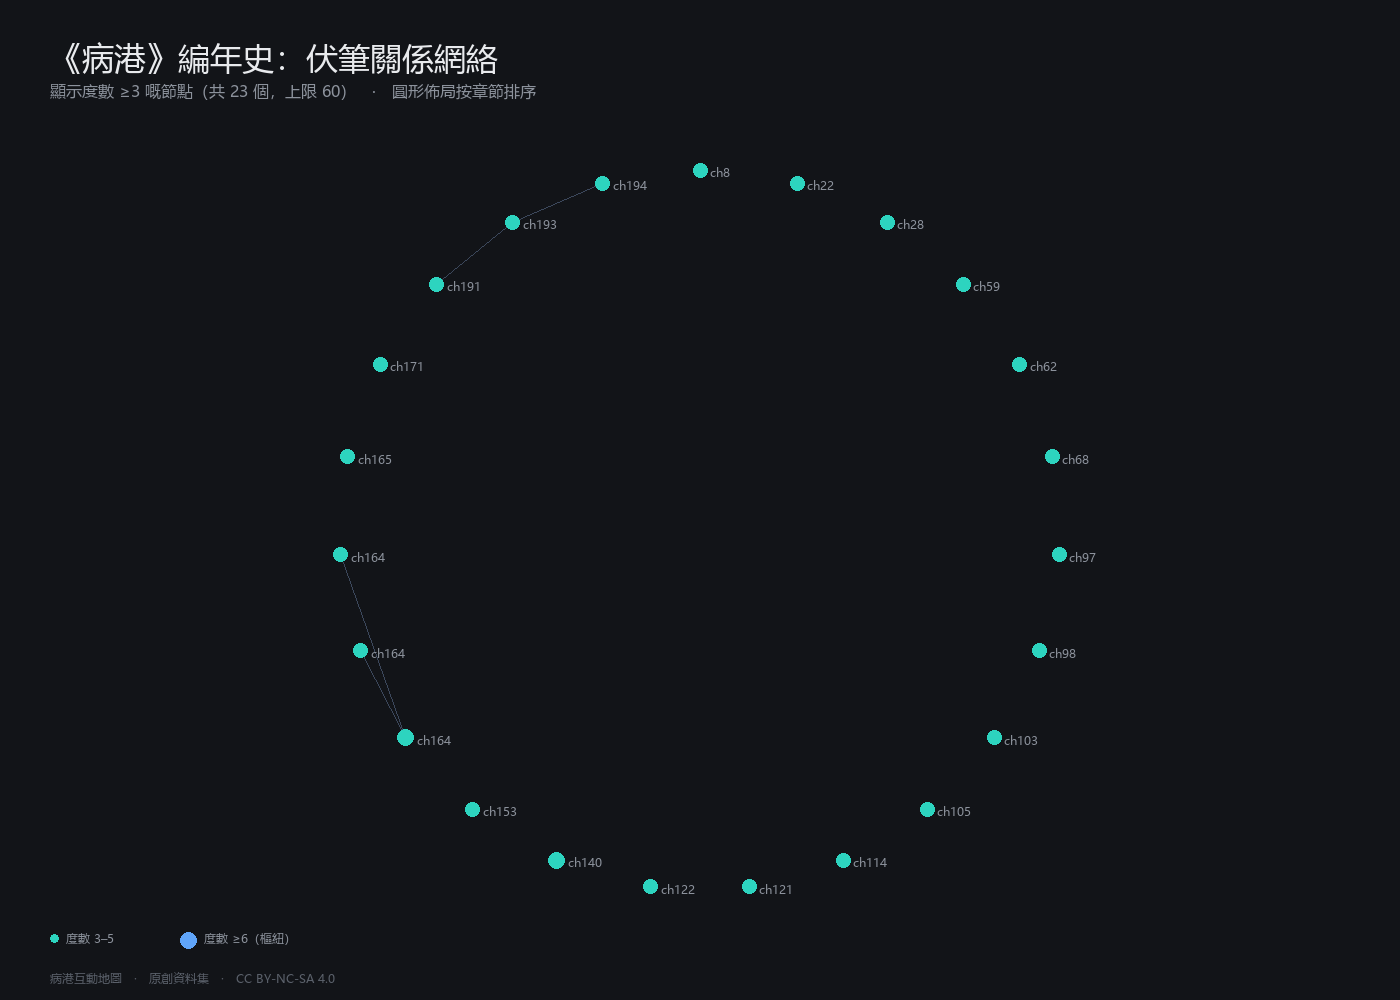
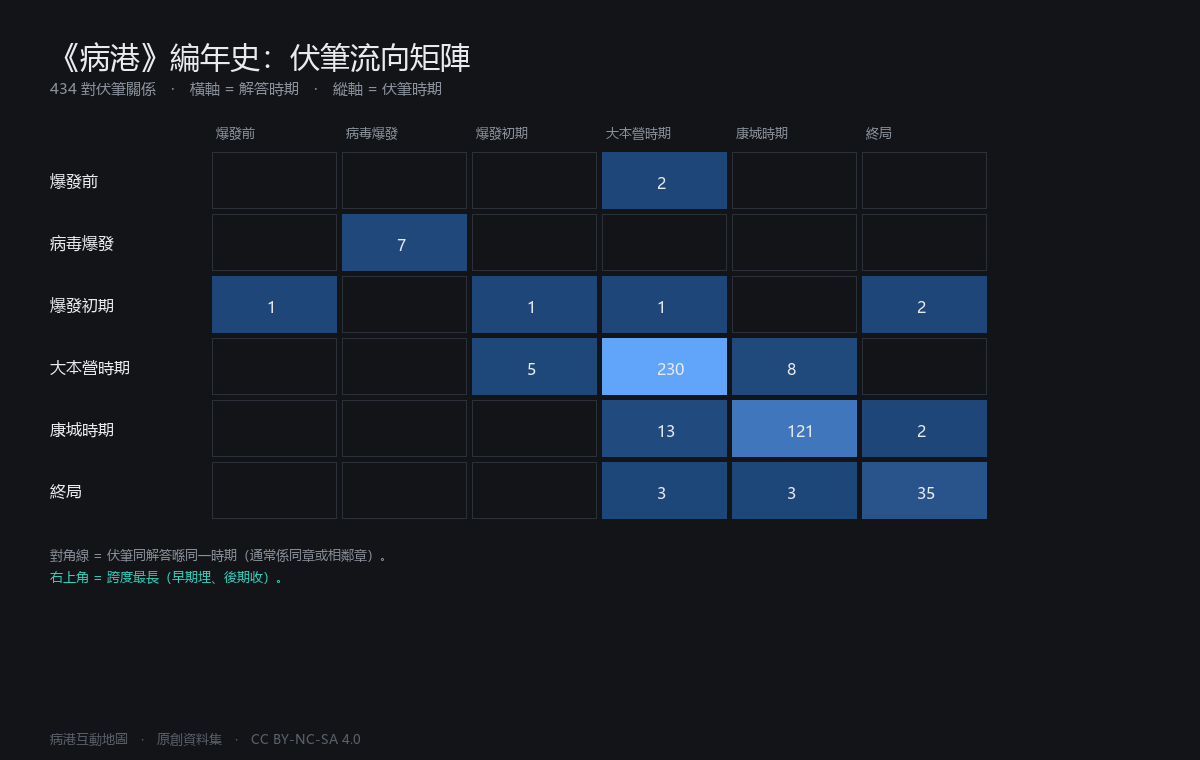
feat(export): 網絡圖改為「時期流向矩陣」（節點圖太稀疏）
═══ 問題 ═══
第一版「伏筆關係網絡圖」用圓形節點佈局，但實測**極稀疏**：
| 度數 | 節點數 |
|---|---|
| 1 | 525 |
| 2 | 136 |
| 3 | 21 |
| 4 | 2 |

度數 ≥3 只有 23 個節點、4 條邊 —— 畫出嚟只係散點，冇結構可言。
（因為伏筆關係多數係 1 對 1，唔會形成密集樞紐。）

═══ 修正：改為「時期 × 時期」流向矩陣 ═══
回答更有意義嘅問題：**「邊個時期埋嘅伏筆，喺邊個時期收？」**

實測結果：
| 伏筆時期 ↓ / 解答時期 → | 大本營 | 康城 | 終局 |
|---|---|---|---|
| 大本營時期 | **230** | 8 | 0 |
| 康城時期 | 13 | **121** | 2 |
| 終局 | 3 | 3 | **35** |

**關鍵發現**：**89% 伏筆（386/434）喺同一時期內解答**。
跨時期嘅只有 48 對，而且以「大本營 → 康城」（8）同
「康城 → 大本營」（13）為主 —— 呢個反映咗故事**地點上嘅非線性**
（角色喺兩個聚居地之間來回）。

⚠ 點解會有「康城 → 大本營」呢種「倒流」：因為**時期係按地點定義**，
而故事會返返大本營，所以早期喺康城埋嘅伏筆可能喺返回大本營後才收。

═══ 教訓 ═══
**唔好假設資料有網絡結構**。我原本假設「伏筆關係會形成樞紐網絡」，
但實測度數分佈顯示係**長尾**（525 個度數=1）。改用矩陣後才睇到結構。

呢個係「先用資料驗證假設，再決定視覺化形式」嘅例子 ——
如果一開始就畫節點圖，會得出「冇結構」嘅錯誤結論。

閘門：pytest 223/223 ✅

diff --git a/scripts/export_chronicle_hubs.py b/scripts/export_chronicle_hubs.py
@@ -175,8 +175,92 @@ def draw_hubs(entries: list[dict]) -> Path:
     return out
 
 
+PERIOD_ORDER = ["爆發前", "病毒爆發", "爆發初期", "大本營時期", "康城時期", "終局"]
+
+
 def draw_network(entries: list[dict]) -> Path:
-    """圓形佈局嘅伏筆網絡圖（只畫度數最高嘅節點，避免變毛球）。"""
+    """時期流向矩陣：伏筆同解答各屬邊個時期。
+
+    ⚠ 為何唔用「節點網絡圖」
+    ------------------------
+    實測度數分佈極稀疏：525 個節點度數=1、136 個=2、只有 23 個 ≥3。
+    畫出嚟只係散點，冇結構可言。
+
+    改為**時期 × 時期**嘅流向矩陣 —— 回答一個更有意義嘅問題：
+    「邊個時期埋嘅伏筆，喺邊個時期收？」呢個先係編年史嘅核心。
+    """
+    by_id = {e["id"]: e for e in entries}
+    # 建立 時期 × 時期 矩陣
+    mat: dict[tuple[str, str], int] = {}
+    for e in entries:
+        fp = e["story_time"]["label"]
+        for fid in e.get("foreshadows", []):
+            f = by_id.get(fid)
+            if not f:
+                continue
+            pp = f["story_time"]["label"]
+            if fp in PERIOD_ORDER and pp in PERIOD_ORDER:
+                mat[(fp, pp)] = mat.get((fp, pp), 0) + 1
+
+    W, H = 1200, 760
+    img = Image.new("RGB", (W, H), BG)
+    d = ImageDraw.Draw(img)
+    f_title = load_font(30)
+    f_sub = load_font(15)
+    f_body = load_font(16)
+    f_small = load_font(13)
+
+    n_rel = sum(len(e.get("foreshadows", [])) for e in entries)
+    d.text((50, 36), "《病港》編年史：伏筆流向矩陣", font=f_title, fill=FG)
+    d.text(
+        (50, 78),
+        f"{n_rel} 對伏筆關係　·　橫軸 = 解答時期　·　縱軸 = 伏筆時期",
+        font=f_sub, fill=MUTED,
+    )
+
+    # 格仔尺寸
+    cw, chh = 130, 62
+    ox, oy = 210, 150
+    maxv = max(mat.values()) if mat else 1
+    for j, pp in enumerate(PERIOD_ORDER):
+        d.text((ox + j * cw + 6, oy - 26), pp, font=f_small, fill=MUTED)
+    for i, fp in enumerate(PERIOD_ORDER):
+        d.text((50, oy + i * chh + 20), fp, font=f_body, fill=FG)
+        for j, pp in enumerate(PERIOD_ORDER):
+            v = mat.get((fp, pp), 0)
+            x0, y0 = ox + j * cw, oy + i * chh
+            if v:
+                # 顏色深淺按數量
+                t = v / maxv
+                col = (
+                    int(30 + 66 * t),
+                    int(70 + 95 * t),
+                    int(120 + 130 * t),
+                )
+                d.rectangle([(x0 + 2, y0 + 2), (x0 + cw - 4, y0 + chh - 4)], fill=col)
+                d.text((x0 + cw // 2 - 8, y0 + chh // 2 - 9), str(v),
+                       font=f_body, fill=FG)
+            else:
+                d.rectangle([(x0 + 2, y0 + 2), (x0 + cw - 4, y0 + chh - 4)],
+                            outline=GRID)
+
+    # 對角線（同章／同時期）加註
+    d.text((50, oy + len(PERIOD_ORDER) * chh + 24),
+           "對角線 = 伏筆同解答喺同一時期（通常係同章或相鄰章）。",
+           font=f_small, fill=MUTED)
+    d.text((50, oy + len(PERIOD_ORDER) * chh + 46),
+           "右上角 = 跨度最長（早期埋、後期收）。",
+           font=f_small, fill=ACCENT2)
+    d.text((50, H - 30), "病港互動地圖　·　原創資料集　·　CC BY-NC-SA 4.0",
+           font=f_small, fill=(90, 96, 106))
+
+    out = OUT_DIR / "chronicle-network.png"
+    OUT_DIR.mkdir(parents=True, exist_ok=True)
+    img.save(out, "PNG", optimize=True)
+    return out
+
+
+def _unused_old_network(entries: list[dict]) -> Path:
     import math
 
     deg = degree(entries)
